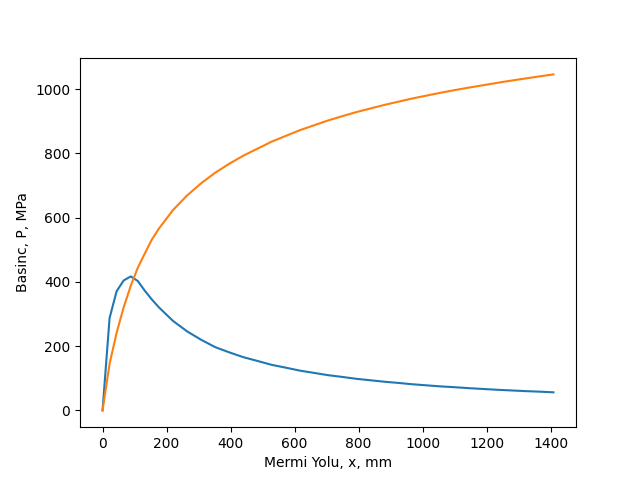
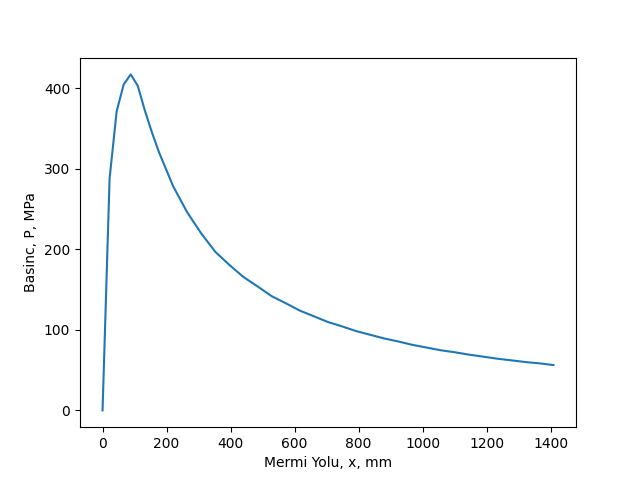
add window title

diff --git a/paper_calculation.py b/paper_calculation.py
@@ -58,12 +58,17 @@ def yiv_hesaplama(x_list, V_list, P_list, yiv_pack):
 def display_x_y(P_list, V_list, t_list, x_list):
     plot1 = plt.figure(1)
     plt.plot(x_list, P_list)
-    plt.plot(x_list, V_list)
     plt.xlabel("Mermi Yolu, x, mm")
     plt.ylabel("Basinc, P, MPa")
     plt.savefig("mermi_yolu-basinc.png")
 
     plot2 = plt.figure(2)
+    plt.plot(x_list, V_list)
+    plt.xlabel("Mermi Yolu, x, mm")
+    plt.ylabel("Hiz, V, m/s")
+    plt.savefig("mermi_yolu_hiz.png")
+
+    plot3 = plt.figure(3)
     plt.plot(x_list, t_list)
     plt.xlabel("Mermi Yolu, x, mm")
     plt.ylabel("Zaman, t, ms")
@@ -255,6 +260,7 @@ def show_entry_fields(entry_comps):
 
 
 master = Tk()
+master.title("Namlu-Yiv Egri Hesaplamalari")
 n_rows = 7
 n_columns = 2
 for i in range(n_rows):
